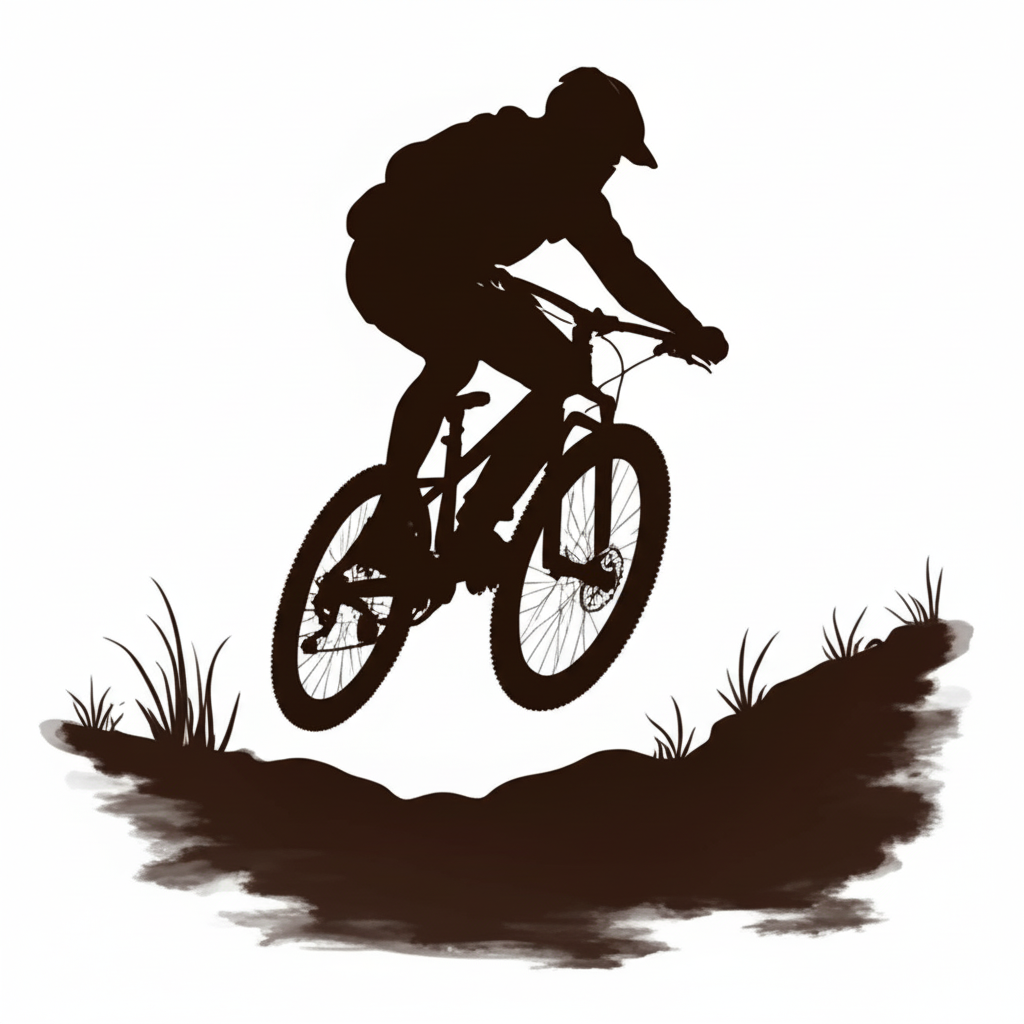
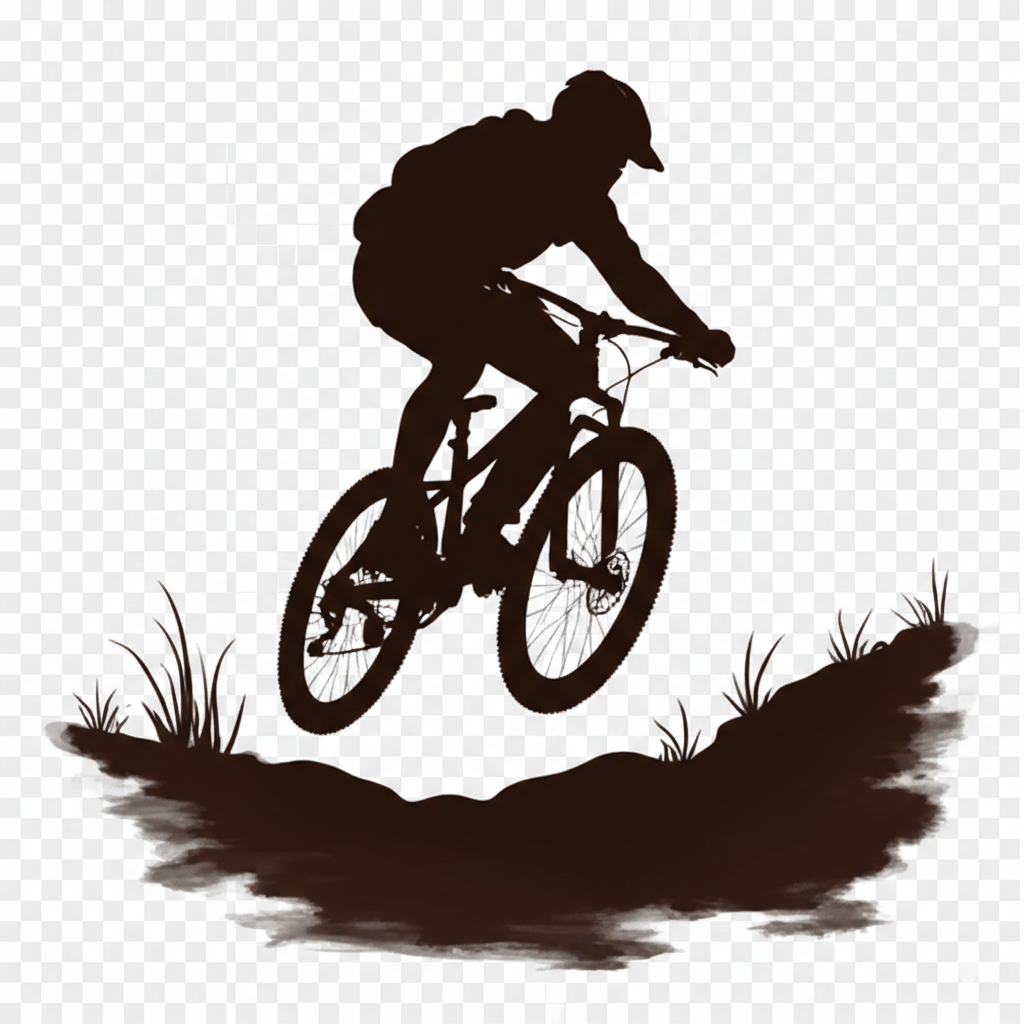
Changes

diff --git a/src/components/Header.tsx b/src/components/Header.tsx
@@ -26,7 +26,7 @@ const Header = () => {
             <img 
               src={mtbSilhouette} 
               alt="MTB Test logo" 
-              className="h-14 w-14 object-contain transition-transform group-hover:scale-110 mix-blend-darken"
+              className="h-14 w-14 object-contain transition-transform group-hover:scale-110"
             />
             <div className="flex flex-col leading-none">
               <span className="text-2xl font-extrabold text-primary tracking-tight">MTB Test</span>
